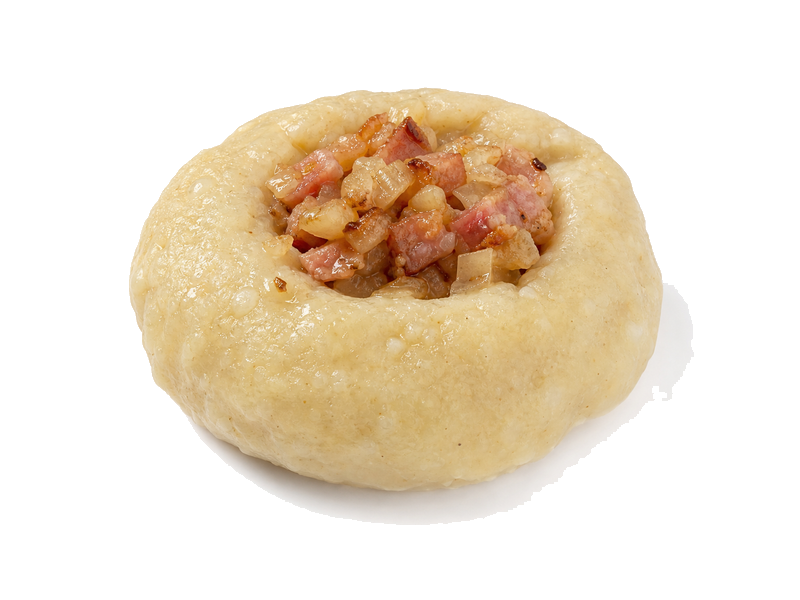
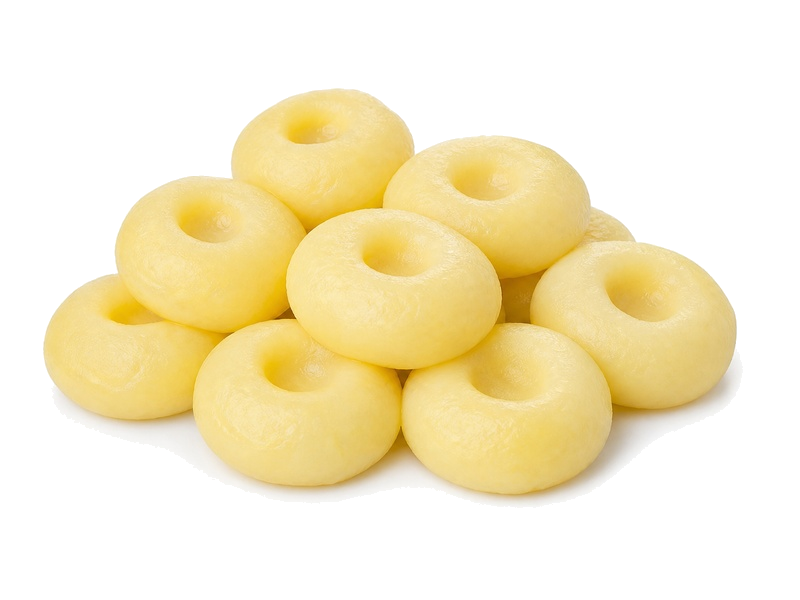
Replace Kluski śląskie photo with plain dumplings, no skwarki.

diff --git a/deploy-bundle/produkty/kluski-slaskie.html b/deploy-bundle/produkty/kluski-slaskie.html
@@ -22,13 +22,13 @@
     <link rel="apple-touch-icon" href="../images/apple-touch-icon.png">
     <!-- pm:site-head -->
     <meta property="og:site_name" content="Proteiner">
-    <meta property="og:image" content="https://proteiner.pl/images/products/kluski-slaskie.jpg?v=20260807b">
+    <meta property="og:image" content="https://proteiner.pl/images/products/kluski-slaskie.jpg?v=20260811a">
     <meta property="og:image:width" content="1200">
     <meta property="og:image:height" content="630">
     <meta property="og:image:alt" content="Kluski śląskie">
     <meta property="og:locale" content="pl_PL">
     <meta name="twitter:card" content="summary_large_image">
-    <meta name="twitter:image" content="https://proteiner.pl/images/products/kluski-slaskie.jpg?v=20260807b">
+    <meta name="twitter:image" content="https://proteiner.pl/images/products/kluski-slaskie.jpg?v=20260811a">
     <link rel="preconnect" href="https://fonts.googleapis.com">
     <link rel="preconnect" href="https://fonts.gstatic.com" crossorigin>
     <link rel="preload" as="style" href="https://fonts.googleapis.com/css2?family=Plus+Jakarta+Sans:ital,wght@0,400;0,500;0,600;0,700;0,800;1,400&family=Encode+Sans:wght@600;700;800&display=swap">

diff --git a/produkty/kluski-slaskie.html b/produkty/kluski-slaskie.html
@@ -22,13 +22,13 @@
     <link rel="apple-touch-icon" href="../images/apple-touch-icon.png">
     <!-- pm:site-head -->
     <meta property="og:site_name" content="Proteiner">
-    <meta property="og:image" content="https://proteiner.pl/images/products/kluski-slaskie.jpg?v=20260807b">
+    <meta property="og:image" content="https://proteiner.pl/images/products/kluski-slaskie.jpg?v=20260811a">
     <meta property="og:image:width" content="1200">
     <meta property="og:image:height" content="630">
     <meta property="og:image:alt" content="Kluski śląskie">
     <meta property="og:locale" content="pl_PL">
     <meta name="twitter:card" content="summary_large_image">
-    <meta name="twitter:image" content="https://proteiner.pl/images/products/kluski-slaskie.jpg?v=20260807b">
+    <meta name="twitter:image" content="https://proteiner.pl/images/products/kluski-slaskie.jpg?v=20260811a">
     <link rel="preconnect" href="https://fonts.googleapis.com">
     <link rel="preconnect" href="https://fonts.gstatic.com" crossorigin>
     <link rel="preload" as="style" href="https://fonts.googleapis.com/css2?family=Plus+Jakarta+Sans:ital,wght@0,400;0,500;0,600;0,700;0,800;1,400&family=Encode+Sans:wght@600;700;800&display=swap">
